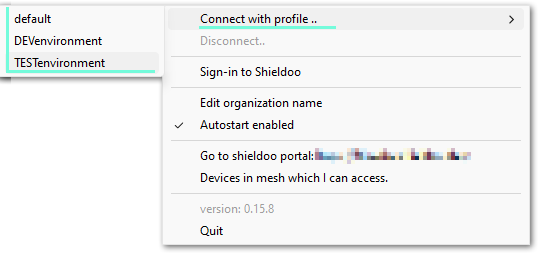
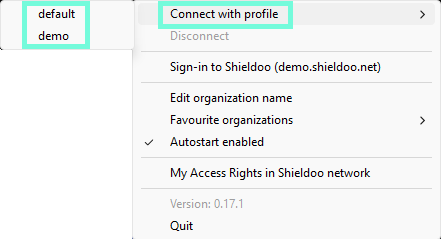
Update names and images (#5)
* Change of terminology names

* Change images

* Change title - Connect to a Attached Services

diff --git a/docs/pages/2_admin/05_access_management.md b/docs/pages/2_admin/05_access_management.md
@@ -7,7 +7,7 @@ permalink: /access_management/
 ---
 
 # Access Management
-By default, when you set up your Shieldoo mesh network, all network nodes (users and server) can access each other.  
+By default, when you set up your Shieldoo Secure Network, all network nodes (users and server) can access each other.  
 
 The default setup might be sufficient for your solution. If not, advanced users can utilize the __Expert Mode__ to secure the traffic passing between the network and its nodes (users and servers):  
 1. Enable the __Expert Mode__ to gain access to all the access management features.  
@@ -42,14 +42,14 @@ The resource server has an access card that does the following:
 
 
 ## Groups
-A group in a Shieldoo Mesh network is a mechanism that maps specific firewall rules to specific users or servers.  
+A group in a Shieldoo Secure Network is a mechanism that maps specific firewall rules to specific users or servers.  
 ![](../../images/AccessManagement02.png)
 
 A group alone does not do any mapping. It only indicates what type of access the group will manage. [Firewalls](/access_management/#firewalls) and [access cards](/access_management/#access-cards) will use created groups to do the mapping.
 
 ### Creating Groups
 The following steps describe how to create groups:
-1. Log in to your organization's Shieldoo Mesh web application.
+1. Log in to your organization's Shieldoo Secure Network web application.
 2. Enable __Expert Mode__.
 3. Go to the __Users__ \| __Groups__ section.
 4. Click on the __Create__ button to open the __Create Group__ dialog.
@@ -60,12 +60,12 @@ The following steps describe how to create groups:
 7. Continue by [creating firewalls](/access_management/#firewalls), utilizing the created groups.
 
 ## Firewalls
-A firewall in a Shieldoo Mesh network configures rules that determine which traffic can pass between the network and its nodes (users and servers).  
+A firewall in a Shieldoo Secure Network configures rules that determine which traffic can pass between the network and its nodes (users and servers).  
 ![](../../images/AccessManagement03.png)
 
 ### Creating Firewalls
 The following steps describe how to create firewalls:
-1. Log in to your organization's Shieldoo Mesh web application.
+1. Log in to your organization's Shieldoo Secure Network web application.
 2. Enable __Expert Mode__.
 3. Go to the __System Configuration__ \| __Firewall__ section.
 4. Click on the __Create__ button to open the __Create Firewall__ dialog.
@@ -100,11 +100,11 @@ This section describes the settings of the __Create Rule__ dialog:
 > If you map a rule to a group called _Database_, only users or servers mapped (in their [access cards](/access_management/#access-cards)) to that group will be able to access the given port.
 
 ## Access Cards
-An access card in a Shieldoo Mesh network maps firewall rules and groups to specific servers or users. In other words, it determines which services users or servers can access within the network.
+An access card in a Shieldoo Secure Network maps firewall rules and groups to specific servers or users. In other words, it determines which services users or servers can access within the network.
 
 ### Creating Server Access Cards
 The following steps describe how to create access cards for servers:
-1. Log in to your organization's Shieldoo Mesh web application.
+1. Log in to your organization's Shieldoo Secure Network web application.
 2. Enable __Expert Mode__.
 3. Go to the __Devices__ \| __Servers__ section.
 4. Open the context menu of the server for which you want to create an access card.
@@ -125,7 +125,7 @@ The following steps describe how to create access cards for servers:
 
 ### Creating User Access Cards
 The following steps describe how to create access cards for users:
-1. Log in to your organization's Shieldoo Mesh web application.
+1. Log in to your organization's Shieldoo Secure Network web application.
 2. Enable __Expert Mode__.
 3. Go to the __Users__ \| __Users__ section.
 4. Open the context menu of the user for whom you want to create an access card.

diff --git a/docs/pages/2_admin/03_attached_services.md b/docs/pages/2_admin/03_attached_services.md
@@ -1,0 +1,60 @@
+---
+layout: default
+title: Attached Services
+parent: Admin
+nav_order: 3
+permalink: /attached_services/
+---
+
+# Attached Services
+An attached service is a device that runs on the local network of a server (configured in Shieldoo), but on which Shieldoo cannot be installed (e.g. a printer).
+
+Shieldoo allows you to connect to such services directly without having to connect to their servers first.
+
+![](../../images/AttachedServices01.png)
+
+## Configuring Attached Services
+The following steps describe how to configure a connection an attached service:
+1. Log in to your organization's Shieldoo Secure Network web application.
+2. Enable __Expert Mode__.
+3. Go to the **Devices** \| **Servers** section.
+4. Open the context menu of the server whose local network is running the service you want to connect to.
+![](../../images/AttachedServices02.png)
+5. Click on __Edit__ to open the server's settings.
+6. Go to the __Attached Services__ tab.
+7. Click on the **Create** button to open the _Create Attached Service_ dialog.
+8. Configure the attached service settings:
+   - __Type__ - Select what type of attached service you are configuring: _Server_, _Printer_, _NAS_, or _Other_.  
+   The __Attached Services__ tab will display the corresponding icon to indicate the type of each configured service.  
+   ![](../../images/AttachedServices03.png)
+   - __Listen port__ - Define the port on which you want the service to run within the Shieldoo network.
+   - __Protocol__ - Select the network protocol: _TCP_ or _UDP_. <!---Co přesně je to za protokol?-->
+   - __Forward port__ - Define the actual port on which the service that you want to connect to runs on the local network of the given server.  
+   Shieldoo will map this port to the port defined by the __Listen port__ setting.
+   - __Forward host__ - Define the IP address or hostname of the service that you want to connect to.
+   - __Description__ - Describe the attached service's purpose.
+9. Click on the __Save__ button to create the connection to the configured attached service.
+
+{: .note }
+> Who can use attached services is governed by the same firewall rules as those that can be configured for servers.  
+> 
+> For more information, see the [Access Management](/access_management/) chapter.
+
+## Connecting to Attached Services
+The method of connecting to an attached service depends on the type of the given service.
+
+Here are the general steps:
+1. Connect to your Shieldoo network as a client.  
+Learn how to do that in the [Connect Me](/connect_me/) chapter.
+2. Go to the **Devices** \| **My Access Rights** section to see which servers:
+   - Are available to you.
+   - Have attached services configured (see the __Listeners__ column).
+3. Expand the row of a server that has any attached services configured to see the services' listen ports.
+4. Connect to an attached service by utilizing:
+   - The IP address of the given server.
+   - The listen port of the attached service.
+
+![](../../images/AttachedServices04.png)
+
+{: .tip }
+> For a specific example of connecting to an attached service, see the [Sharing a Printer](/examples/#sharing-a-printer) section.

diff --git a/docs/pages/2_admin/01_getting_started.md b/docs/pages/2_admin/01_getting_started.md
@@ -7,17 +7,17 @@ permalink: /admin_getting_started/
 ---
 
 # Getting Started
-This chapter introduces the concepts important for the administrators of your Shieldoo Mesh network.
+This chapter introduces the concepts important for the administrators of your Shieldoo Secure Network.
 
 ## Administration Modes
-Shieldoo Mesh provides administrators with the following configuration modes:
+Shieldoo Secure Network provides administrators with the following configuration modes:
 - __Simple Mode__ - Allows you to quickly set up your network without configuring any traffic restrictions. By default, all network nodes (users or server) can access each other.
 - __Expert Mode__ - Allows advanced users to secure the network by establishing rules for filtering incoming and outgoing traffic passing between the network and its nodes (users and servers).  
 
 ## Servers
-Servers in a Shieldoo Mesh network are devices that users or other servers can connect to.
+Servers in a Shieldoo Secure Network are devices that users or other servers can connect to.
 
-To learn how to install servers in your Shieldoo Mesh network, see the [Servers](/servers/) chapter.
+To learn how to install servers in your Shieldoo Secure Network, see the [Servers](/servers/) chapter.
 
 ## Attached Services
 Attached services are devices that run on the local network of a server (configured in Shieldoo), but on which Shieldoo cannot be installed (e.g. a printer).
@@ -25,12 +25,12 @@ Attached services are devices that run on the local network of a server (configu
 Shieldoo allows you to connect to such services directly without having to connect to their servers first.
 
 ## Users
-Users in a Shieldoo Mesh network are clients that can connect to servers.
+Users in a Shieldoo Secure Network are clients that can connect to servers.
 
-To learn how to invite users to your Shieldoo Mesh network, see the [Users](/users/) chapter.
+To learn how to invite users to your Shieldoo Secure Network, see the [Users](/users/) chapter.
 
 ## Access Management Features
-The following features allow you to secure your Shieldoo Mesh network:
+The following features allow you to secure your Shieldoo Secure Network:
 - __Groups__ - A group is a mechanism that maps specific firewall rules to specific nodes (users and servers).
 - __Firewalls__ - A firewall configures rules that determine which traffic can pass between the network and its nodes (users and servers). 
 - __Access Cards__ - An access card maps firewall rules and groups to specific nodes (servers and users).  

diff --git a/docs/pages/2_admin/02_servers.md b/docs/pages/2_admin/02_servers.md
@@ -7,13 +7,13 @@ permalink: /servers/
 ---
 
 # Servers
-Servers in a Shieldoo Mesh network are devices that users or other servers can connect to.
+Servers in a Shieldoo Secure Network are devices that users or other servers can connect to.
 ![](../../images/Servers01.png)
 
 ## Installing Servers
-The following steps describe how to install a server in your Shieldoo Mesh network:
+The following steps describe how to install a server in your Shieldoo Secure Network:
 1. Go to the machine on which you want to install the server.
-2. Log in to your organization's Shieldoo Mesh web application.
+2. Log in to your organization's Shieldoo Secure Network web application.
 3. Create a placeholder for the server in your network:
    1. Go to the **Devices** \| **Servers** section.
    2. Click on the **Create** button to open the Create Server dialog.
@@ -21,7 +21,7 @@ The following steps describe how to install a server in your Shieldoo Mesh netwo
        - **Name** - Give the server a descriptive name.
        - **Note** - Describe the server's purpose.
    4. Click on the **Create** button again to open the installation instructions.
-4. Follow the installation instructions to install the server-side Shieldoo Mesh application on the given machine.
+4. Follow the installation instructions to install the server-side Shieldoo Secure Network application on the given machine.
 5. Learn how to connect to the prepared server in the [Connecting to a Server](/server_connection/) section.
 
 {: .warning }
@@ -37,7 +37,7 @@ This section describes how to edit a server's configuration after it has been cr
 2. Use the provided options to edit the server:  
    - **Detail** - Opens the installation instructions that you used to install the server.
    - **Edit** - Opens the server's configuration which you can edit.
-   - **Delete** - Deletes the server from your Shieldoo Mesh network.  
+   - **Delete** - Deletes the server from your Shieldoo Secure Network.  
    No users or other servers will be able to connect to it.
 
 <!---## Attached Service-->

diff --git a/docs/pages/index.md b/docs/pages/index.md
@@ -2,21 +2,20 @@
 layout: default
 title: Introduction
 nav_order: 1
-description: "Introduction to Shieldoo Mesh."
+description: "Introduction to Shieldoo Secure Network."
 permalink: /
 ---
 
-# Shieldoo Mesh
-Shieldoo Mesh is a private secure network. 
+# Shieldoo Secure Network
 
-It is an end-to-end encrypted peer-to-peer overlay network. That means you connect your devices securely over the Internet, allowing them to communicate with each other using just your local Wi-Fi.
+Shieldoo Secure Network is an end-to-end encrypted peer-to-peer overlay private network. That means you connect your devices securely over the Internet, allowing them to communicate with each other using just your local Wi-Fi.
 
-The network is built upon [Nebula](https://github.com/slackhq/nebula) by [Slack](https://github.com/slackhq). The underlying technology is lenghty to set up, requiring deep expertise to do properly. Shieldoo Mesh comes with a slick UI, automatic deployment in cloud and additional features that are missing from [Nebula](https://github.com/slackhq/nebula) itself. 
+The network is built upon [Nebula](https://github.com/slackhq/nebula) by [Slack](https://github.com/slackhq). The underlying technology is lenghty to set up, requiring deep expertise to do properly. Shieldoo Secure Network comes with a slick UI, automatic deployment in cloud and additional features that are missing from [Nebula](https://github.com/slackhq/nebula) itself. 
 
-Shieldoo Mesh brings the following benefits to its users:
+Shieldoo Secure Network brings the following benefits to its users:
 - For non-experts - Ability to set up in a few clicks.
 - For experts - Simplicity, speed and comfort.
 
-To learn about Shieldoo Mesh in detail, see the following role-specific chapters:
+To learn about Shieldoo Secure Network in detail, see the following role-specific chapters:
 - [Basic User](./basic_user/#basic-user)
 - [Admin](./admin/#admin)

diff --git a/docs/pages/1_user/04_connect_to_attached_services.md b/docs/pages/1_user/04_connect_to_attached_services.md
@@ -1,17 +1,17 @@
 ---
 layout: default
-title: Listeners Printer
-parent: Basic User
+title: Connect to a Attached Services
+parent: User
 nav_order: 4
-permalink: /listeners_printer/
+permalink: /connect_to_attached_services/
 ---
 
-# Connect to a printer or other device (listeners)
+# Connect to a Attached Services
 ## Attached Services
-An attached service is a device that runs on the local network of a server (configured in Shieldoo), but on which Shieldoo cannot be installed (e.g. a printer). 
-![](../../images/ListenersPrinter01.png)
+An attached service is a device that runs on the local network of a server (configured in Shieldoo Secure Network), but on which Shieldoo cannot be installed (e.g. a printer). 
+![](../../images/ConnectAttachedServices01.png)
 
-Shieldoo allows you to connect to such services directly without having to connect to their servers first. These services are managed by the administrator of Shieldoo Mesh network.
+Shieldoo allows you to connect to such services directly without having to connect to their servers first. These services are managed by the administrator of Shieldoo Secure Network.
 
 {: .tip }
 > For a specific instructions how to set such service, see the [Attached Services](https://docs.shieldoo.io/attached_services/) chapter.
@@ -24,4 +24,4 @@ Learn how to do that in the [Connect Me](https://docs.shieldoo.io/connect_me/) c
 2. Go to the __Devices | My Access Rights__ section to see which servers are available to you.
 3. Expand the row of a server that has any attached services configured to see the services’ listen ports.
 4. Connect to an attached service by utilizing the IP address of the given server and the listen port of the attached service.
-![](../../images/ListenersPrinter02.png)
+![](../../images/ConnectAttachedServices02.png)

diff --git a/docs/pages/1_user/02_connect_me.md b/docs/pages/1_user/02_connect_me.md
@@ -1,18 +1,18 @@
 ---
 layout: default
 title: Connect Me
-parent: Basic User
+parent: User
 nav_order: 2
 permalink: /connect_me/
 ---
 
 # Connect Me
-This chapter describes the initial steps necessary for you to start using your Shieldoo Mesh network. We will go through following steps:  
+This chapter describes the initial steps necessary for you to start using your Shieldoo Secure Network. We will go through following steps:  
 - [Login](/connect_me/#login)
 - [Installation](/connect_me/#installation-of-shieldoo)
 
 ## Login
-At the moment when your Shieldoo Mesh network was successfully created together with your user and you were notified via email, this is the initial page requesting to login using your existing Microsoft or Google account.  
+At the moment when your Shieldoo Secure Network was successfully created together with your user and you were notified via email, this is the initial page requesting to login using your existing Microsoft or Google account.  
 ![](../../images/ConnectMe02.png)
 
 {: .note }
@@ -43,7 +43,7 @@ The following steps describe how to install the Shieldoo desktop client:
 {: .note }
 > Shieldoo icon
 > 
-> The icon in the system tray provides visual aid about the current status of the Shieldoo Mesh client.  
+> The icon in the system tray provides visual aid about the current status of the Shieldoo Secure Network client.  
 > 
 > - __Not Connected__ or not yet signed in
 > ![](../../images/ConnectMe12.png)

diff --git a/docs/pages/2_admin/04_users.md b/docs/pages/2_admin/04_users.md
@@ -7,12 +7,12 @@ permalink: /users/
 ---
 
 # Users
-Users in a Shieldoo Mesh network are clients that can connect to servers.
+Users in a Shieldoo Secure Network are clients that can connect to servers.
 ![](../../images/Users01.png)
 
 ## Inviting Users to the Network
 The following steps describe how to invite users to your Shieldoo network:
-1. Log in to your organization's Shieldoo Mesh web application.
+1. Log in to your organization's Shieldoo Secure Network web application.
 2. Go to the **Users** section.
 3. Click on the **Invite Users** button to open the Invite Users dialog.
 4. Configure the user invitation settings:  
@@ -57,5 +57,5 @@ This section describes how to edit a user's configuration after they have been i
    - **Edit** - Opens the user's configuration which you can edit.
    - **Grand admin rights** - Grants the given user the network administrator rights.
    - **Revoke admin rights** - Removes the network administrator rights from the given user.
-   - **Delete** - Deletes the user from your Shieldoo Mesh network.  
+   - **Delete** - Deletes the user from your Shieldoo Secure Network.  
    The user will no longer be able to connect to the network.

diff --git a/docs/pages/1_user/05_access_rights.md b/docs/pages/1_user/05_access_rights.md
@@ -1,16 +1,16 @@
 ---
 layout: default
-title: Access Cards
-parent: Basic User
+title: Access Rights
+parent: User
 nav_order: 5
-permalink: /access_cards/
+permalink: /access_rights/
 ---
 
 # Access Rights and Access Cards
-This chapter describes how the access rights are set and how the access cards works in the Shieldoo Mesh network. 
+This chapter describes how the access rights are set and how the access cards works in the Shieldoo Secure Network. 
 
 ## Access rights
-The access rights to different servers are managed by your Shieldoo Mesh administrator, they can not be set by the user himself/herself. If they are set, Shieldoo forces the user to connect to the network under its restriction. 
+The access rights to different servers are managed by your Shieldoo Secure Network administrator, they can not be set by the user himself/herself. If they are set, Shieldoo forces the user to connect to the network under its restriction. 
 You can see the access rights by clicking on __Devices__ button on the top left corner of the Shieldoo window and then click on __My Access Rights__ button.
 ![](../../images/AccessCards01.png)
 

diff --git a/docs/pages/1_user/03_connect_to_server.md b/docs/pages/1_user/03_connect_to_server.md
@@ -1,0 +1,24 @@
+---
+layout: default
+title: Connect to a Server
+parent: User
+nav_order: 3
+permalink: /connect_to_a_server/
+---
+
+# Connect to a Server
+This chapter describes the process of establishing a secure connection to a server in Shieldoo Secure Network. 
+
+## Available servers
+After successful login and installation of your Shieldoo Secure Network, you can now securely connect to any server in your Shieldoo Secure Network enabled to you by your administrator. 
+
+To see the list of available servers, click on the Shieldoo status icon in the system tray ![](../../images/ConnectServer00.png) and choose __My Access Rights In Shieldoo network__.
+
+![](../../images/ConnectServer01.png)
+
+The other possibility is to click on __Devices__ button on the top left corner of the Shieldoo window and then click on __My Access Rights__ button.
+![](../../images/ConnectServer02.png)
+
+It will show the list of available servers within your Shieldoo Secure Network with information about their names, IP addresses and short description:
+![](../../images/ConnectServer03.png)
+

diff --git a/docs/pages/2_admin/06_architecture.md b/docs/pages/2_admin/06_architecture.md
@@ -24,11 +24,11 @@ This section is available in both the Simple and Expert mode.
 ![](../../images/Architecture01.png)
 
 It allows you to do the following:
-- See the list of [__Lighthouses__](/architecture/#lighthouses) that exist in your Shieldoo Mesh network.
-- Configure the [__CIDR__](https://www.rfc-editor.org/rfc/rfc4632) of your Shieldoo Mesh network.
+- See the list of [__Lighthouses__](/architecture/#lighthouses) that exist in your Shieldoo Secure Network.
+- Configure the [__CIDR__](https://www.rfc-editor.org/rfc/rfc4632) of your Shieldoo Secure Network.
 
 {: .warning}
-> Changing the CIDR of your Shieldoo Mesh network causes all access certificates and IP addresses of nodes (servers and clients) to be regenerated.
+> Changing the CIDR of your Shieldoo Secure Network causes all access certificates and IP addresses of nodes (servers and clients) to be regenerated.
 > Avoid doing this unless you fully understand the implications.
 
 ### Lighthouses

diff --git a/docs/pages/2_admin/07_examples.md b/docs/pages/2_admin/07_examples.md
@@ -16,7 +16,7 @@ permalink: /examples/
 This example shows how to share a printer with the clients in your Shieldoo network. To be able to do this, the printer must run within the local network of a server that is connected to the Shieldoo network.
 
 Follow these steps:
-1. Install the server, on whose local network the printer is running, in your Shieldoo Mesh network.  
+1. Install the server, on whose local network the printer is running, in your Shieldoo Secure Network.  
 Learn how to do that in the [Servers](/servers/) chapter.
 2. Configure a connection to the printer as service attached to the installed server.  
 Learn how to do that in the [Attached Services](/attached_services/) chapter.
